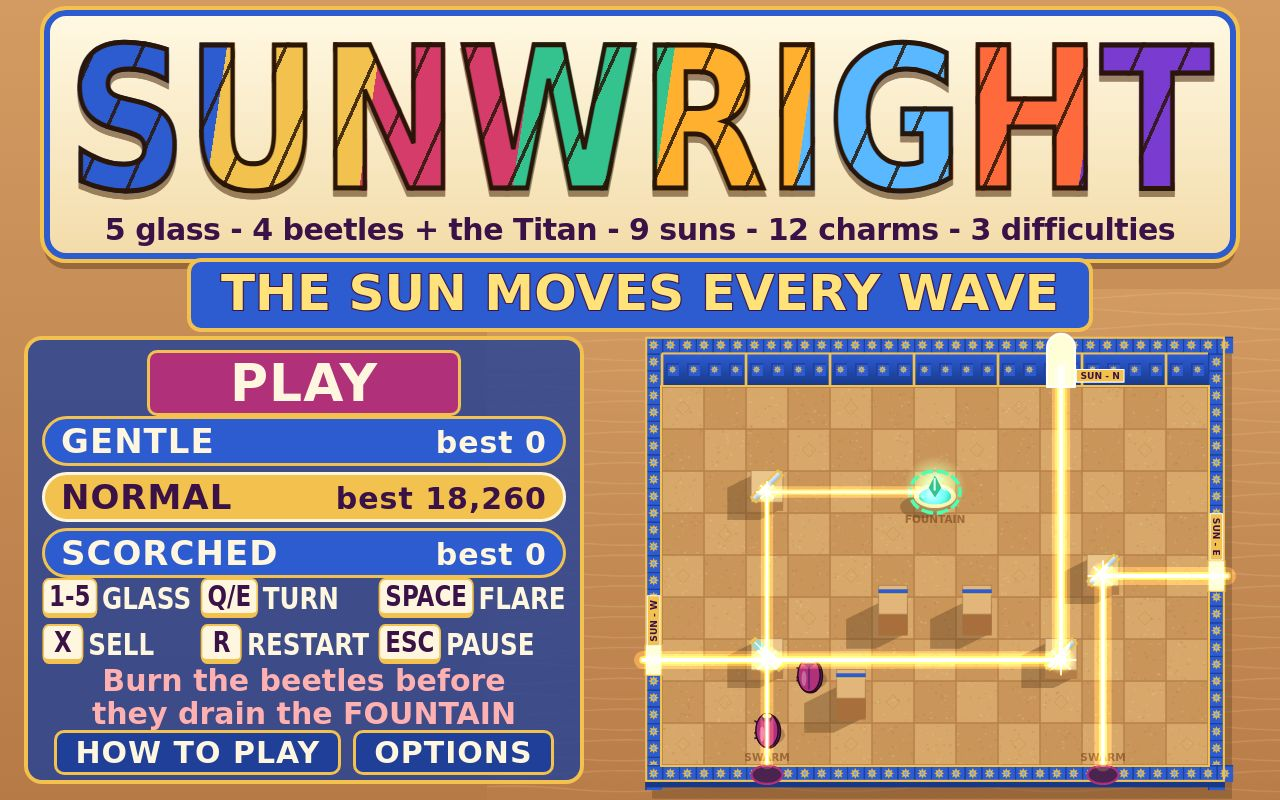
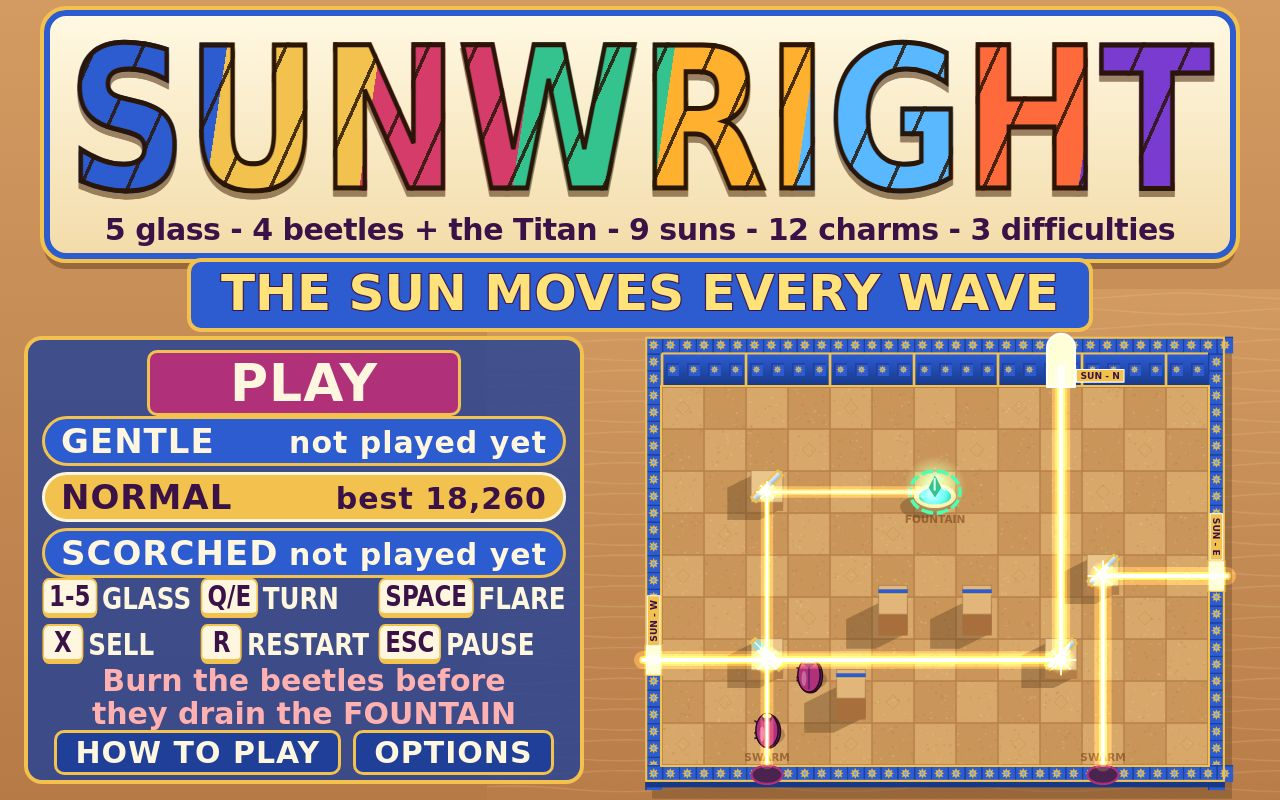
Title pills: unplayed difficulties read 'not played yet' instead of 'best 0'

Changed region(s): [[0.2188, 0.6562, 0.4375, 0.7188], [0.2188, 0.5312, 0.4375, 0.5938]]

diff --git a/game/src/ui/menus.js b/game/src/ui/menus.js
@@ -49,7 +49,7 @@ export function showTitle(menus, bestFor, selected) {
   el('difficulty-picker').innerHTML = DIFFICULTY_ORDER.map((id) => {
     const best = bestFor(id);
     return `<button class="diff ${id === selected ? 'on' : ''}" data-action="difficulty" data-arg="${id}">
-      <b>${DIFFICULTIES[id].name}</b><small>best ${best.score.toLocaleString('en-US')}</small></button>`;
+      <b>${DIFFICULTIES[id].name}</b><small>${best.played ? `best ${best.score.toLocaleString('en-US')}` : 'not played yet'}</small></button>`;
   }).join('');
   el('rule-scope').textContent = SCOPE_LINE;
 }

diff --git a/game/src/save.js b/game/src/save.js
@@ -18,8 +18,10 @@ function writeSave(data) {
   }
 }
 
+/** { score, waves, played } for a difficulty; played is false until a run there has ended. */
 export function loadBest(difficultyId) {
-  return readSave().best?.[difficultyId] ?? { score: 0, waves: 0 };
+  const best = readSave().best?.[difficultyId];
+  return best ? { ...best, played: true } : { score: 0, waves: 0, played: false };
 }
 
 const HISTORY_KEEP = 10;
